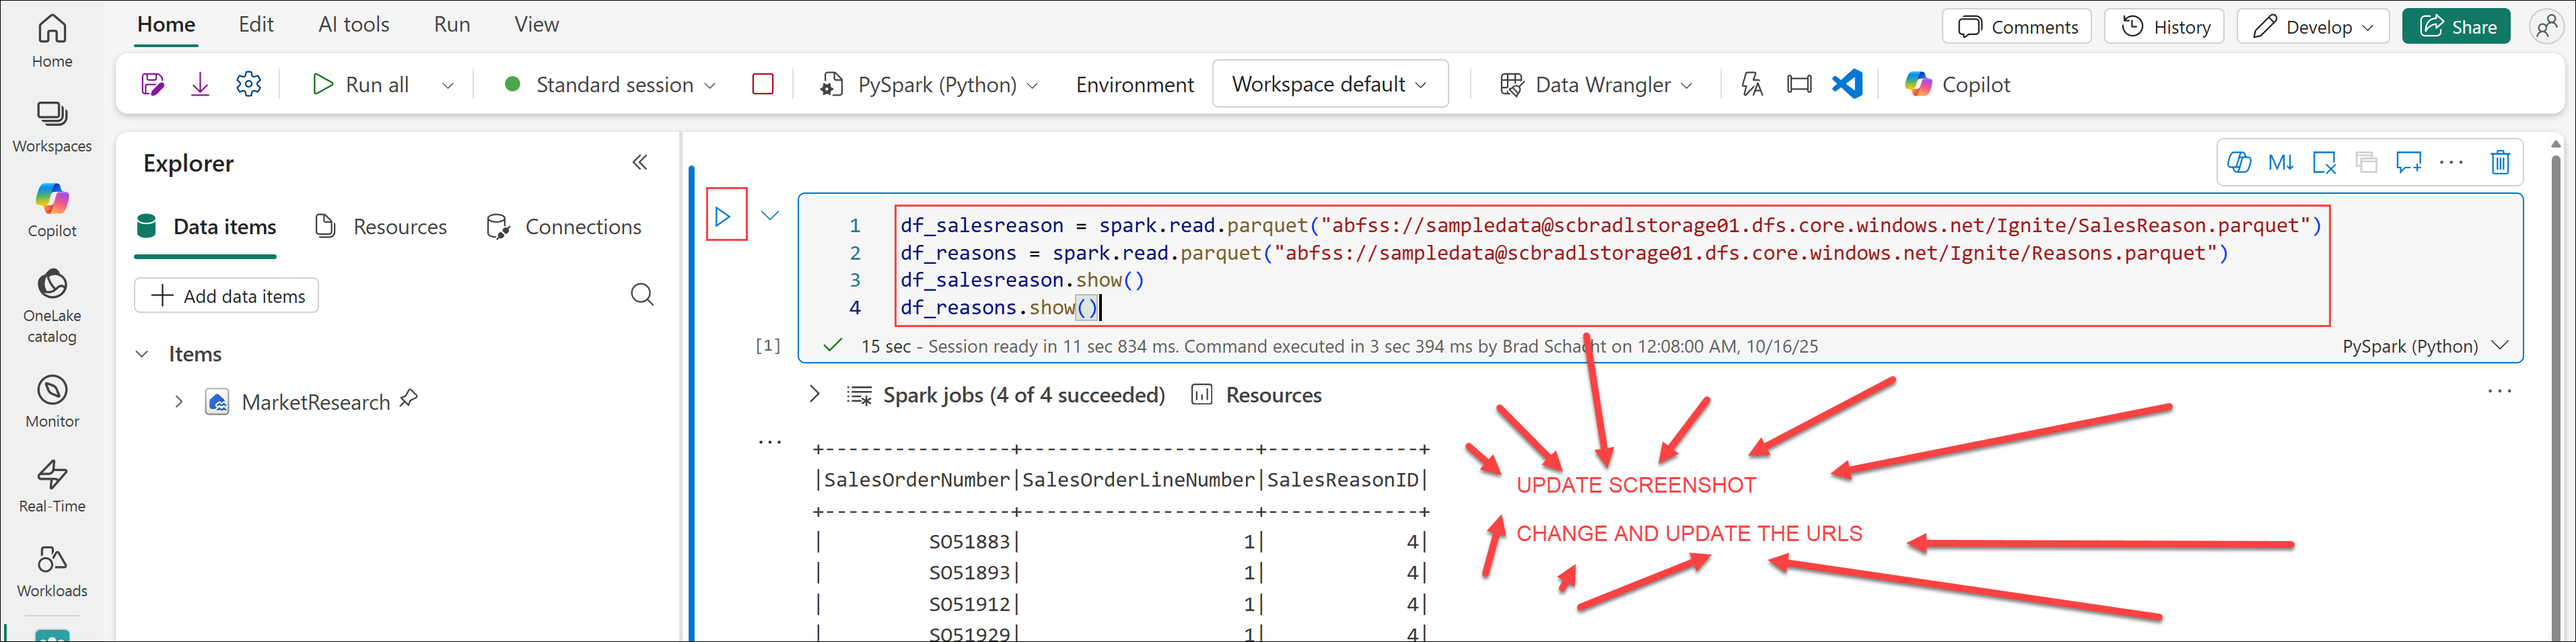
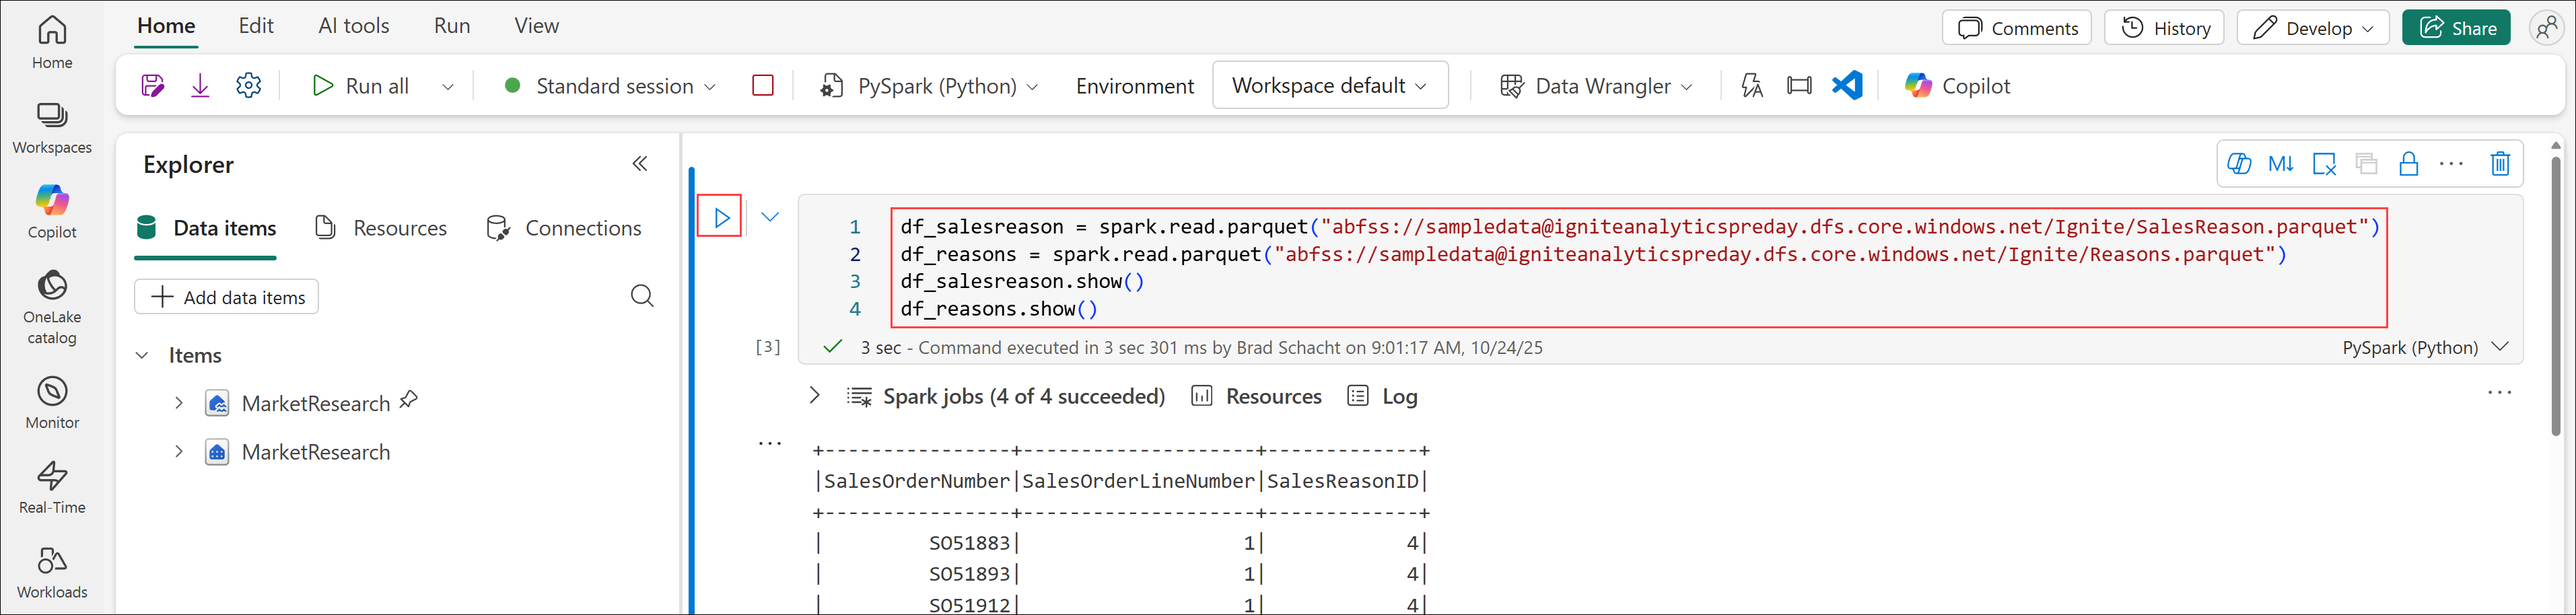
Storage account updates

diff --git a/docs/labs/03 - Data Warehouse.md b/docs/labs/03 - Data Warehouse.md
@@ -172,9 +172,9 @@ This lab will cover:
 1. In the blank code cell perform the following actions:
     - Enter the code below:
         ```sql
-        COPY INTO [stage].[Customer]    FROM 'https://scbradlstorage01.blob.core.windows.net/sampledata/Ignite/Customer.parquet'    WITH (FILE_TYPE = 'PARQUET');
-        COPY INTO [stage].[Product]     FROM 'https://scbradlstorage01.blob.core.windows.net/sampledata/Ignite/Product.parquet'     WITH (FILE_TYPE = 'PARQUET');
-        COPY INTO [stage].[Sales]       FROM 'https://scbradlstorage01.blob.core.windows.net/sampledata/Ignite/Sales.parquet'       WITH (FILE_TYPE = 'PARQUET');
+        COPY INTO [stage].[Customer]    FROM 'https://igniteanalyticspreday.blob.core.windows.net/sampledata/Ignite/Customer.parquet'    WITH (FILE_TYPE = 'PARQUET');
+        COPY INTO [stage].[Product]     FROM 'https://igniteanalyticspreday.blob.core.windows.net/sampledata/Ignite/Product.parquet'     WITH (FILE_TYPE = 'PARQUET');
+        COPY INTO [stage].[Sales]       FROM 'https://igniteanalyticspreday.blob.core.windows.net/sampledata/Ignite/Sales.parquet'       WITH (FILE_TYPE = 'PARQUET');
         GO
         ```
 
@@ -330,7 +330,7 @@ This lab will cover:
 1. In the blank code cell perform the following actions:
     - Enter the code below:
         ```sql
-        COPY INTO [dbo].[DimDate] FROM 'https://scbradlstorage01.blob.core.windows.net/sampledata/Ignite/Date.parquet' WITH (FILE_TYPE = 'PARQUET');
+        COPY INTO [dbo].[DimDate] FROM 'https://igniteanalyticspreday.blob.core.windows.net/sampledata/Ignite/Date.parquet' WITH (FILE_TYPE = 'PARQUET');
         GO
         ```
 

diff --git a/docs/labs/02 - Lakehouse.md b/docs/labs/02 - Lakehouse.md
@@ -53,8 +53,8 @@ This lab will cover:
     - Replace the text in the first notebook cell with the following code:
         
         ```python
-        df_salesreason = spark.read.parquet("abfss://sampledata@scbradlstorage01.dfs.core.windows.net/Ignite/SalesReason.parquet")
-        df_reasons = spark.read.parquet("abfss://sampledata@scbradlstorage01.dfs.core.windows.net/Ignite/Reasons.parquet")
+        df_salesreason = spark.read.parquet("abfss://sampledata@igniteanalyticspreday.dfs.core.windows.net/Ignite/SalesReason.parquet")
+        df_reasons = spark.read.parquet("abfss://sampledata@igniteanalyticspreday.dfs.core.windows.net/Ignite/Reasons.parquet")
         df_salesreason.show()
         df_reasons.show()
         ```
